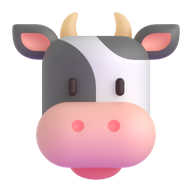
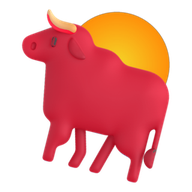
컴퓨터 더 빠르게 던지고 고르기, 작은 순위표(등수+그림), 소를 빨간 황소+노란 해 그림으로

diff --git a/index.html b/index.html
@@ -105,6 +105,7 @@
   @media (min-width: 700px) and (orientation: portrait) {
     .side { display: grid; grid-template-columns: 1.15fr 1fr; align-items: start; }
     .side .topbar { grid-column: 1 / -1; }
+    .side .rankbar { grid-column: 1 / -1; }
     .game-grid .board-wrap { width: min(100%, calc(100dvh - 520px)); margin: 0 auto; }
   }
   @media (min-width: 760px) and (orientation: landscape) {
@@ -219,6 +220,14 @@
   .tcard .goal { font-size: 13px; color: var(--soft); }
   .tcard .goal b { color: var(--ink); font-weight: 400; }
 
+  /* 지금 순위: 숫자 + 그림만 작게 */
+  .rankbar { display: flex; justify-content: center; flex-wrap: wrap; gap: 6px; }
+  .rk { display: inline-flex; align-items: center; gap: 2px; padding: 2px 8px 2px 4px; border-radius: 999px; background: var(--card); box-shadow: 0 2px 0 var(--line); font-size: 17px; line-height: 1; }
+  .rk b { font-weight: 400; min-width: 16px; text-align: center; color: var(--soft); }
+  .rk img { width: 28px; height: 28px; }
+  .rk.top { background: #FFF1C9; }
+  .rk.top b { color: #B07A00; }
+
   /* ───── 시트 / 오버레이 ───── */
   .scrim { position: fixed; inset: 0; background: var(--scrim); z-index: 100; display: flex; align-items: flex-end; justify-content: center; animation: fadeIn .2s; }
   .scrim.center { align-items: center; padding: 16px; }
@@ -315,6 +324,8 @@
         <button class="icon-btn" id="menuBtn" aria-label="메뉴">☰</button>
       </div>
 
+      <div class="rankbar" id="rankbar"></div>
+
       <div class="mat">
         <div class="mat-title"><span class="left">윷판</span><span id="multTag"></span></div>
         <div class="sticks" id="sticks"></div>
@@ -392,7 +403,7 @@ function distToGoal(pos, hist) { return simulate(pos, hist, 40).path.length; }
 
 const YUT_NAME = { "-1": "빽도", 1: "도", 2: "개", 3: "걸", 4: "윷", 5: "모" };
 const TEAM_COLORS = ["#F0675F", "#5B8DEF", "#4DB37E", "#F2B630"];
-// 말 그림: Microsoft Fluent Emoji 3D (MIT 라이선스), animals/ 폴더
+// 말 그림: Microsoft Fluent Emoji 3D (MIT 라이선스), animals/ 폴더. 소는 황소를 빨갛게 칠하고 노란 해를 더함 (scratchpad fluent/bull.py)
 // 헬멧(레이싱 드라이버용)은 Fluent에 없어 같은 느낌으로 직접 그림 (scratchpad fluent/helmet.py)
 // 뱅갈 고양이(이마 줄무늬)는 고양이 얼굴을 다시 칠한 것 (scratchpad breeds.py)
 // 12지 순서대로, 그다음 다른 동물들
@@ -754,7 +765,7 @@ async function doMove(ri, g) {
 /* ════════ 컴퓨터 ════════ */
 function scheduleAI() {
   clearTimeout(ui.aiTimer);
-  if (isAI()) ui.aiTimer = setTimeout(aiStep, 800);
+  if (isAI()) ui.aiTimer = setTimeout(aiStep, 350);
 }
 async function aiStep() {
   if (!isAI() || ui.busy) return;
@@ -762,8 +773,7 @@ async function aiStep() {
     // 컴퓨터도 게이지를 누른다: 반쯤은 윷·모 구역을 노리고, 나머지는 아무 데나
     ui.busy = true; render();
     const aim = Math.random() < .5 ? [51, 82][Math.floor(Math.random() * 2)] + (Math.random() * 10 - 5) : Math.random() * 88;
-    const sweeps = 1 + Math.floor(Math.random() * 2);
-    const total = sweepMs() * 2 * sweeps + aim / 100 * sweepMs();
+    const total = (aim / 100 + (Math.random() < .3 ? 2 : 0)) * sweepMs();   // 대개 한 번에, 가끔 한 바퀴 더
     const t0 = performance.now();
     const k = window.__speed || 1;
     for (let e = 0; e < total; e = (performance.now() - t0) / k) { renderGauge(gaugeAt(e)); await new Promise(r => setTimeout(r, 16)); }
@@ -774,7 +784,7 @@ async function aiStep() {
   const m = aiChoose();
   if (!m) return;
   ui.sel = m.ri; ui.group = m.g; render();
-  await sleep(700);
+  await sleep(350);
   await doMove(m.ri, m.g);
 }
 function threatened(pos, t) {
@@ -950,6 +960,8 @@ function render(keepMsg) {
   else if (choices.includes(WAIT)) { btn.textContent = "새 말 올리기"; btn.disabled = false; }
   else { btn.textContent = "말을 골라 주세요"; btn.disabled = true; }
 
+  renderRank();
+
   // 팀 카드
   const tw = $("#teams");
   tw.style.setProperty("--n", G.teams.length);
@@ -968,6 +980,18 @@ function render(keepMsg) {
       <div class="wait">${minis}</div>
       <div class="goal">골인 <b>${done}</b>/${ps.length}</div></div>`;
   }).join("");
+}
+// 지금 순위: 골인한 말이 많을수록, 같으면 남은 칸이 적을수록 앞. 똑같으면 같은 등수
+function standings() {
+  const arr = G.teams.map((tm, t) => {
+    const ps = piecesOf(t);
+    return { t, tm, done: ps.filter(p => p.pos === GOAL).length, dist: ps.reduce((a, p) => a + (p.pos === GOAL ? 0 : distToGoal(p.pos, p.hist)), 0) };
+  }).sort((a, b) => b.done - a.done || a.dist - b.dist);
+  arr.forEach((r, i) => { const q = arr[i - 1]; r.rank = q && q.done === r.done && q.dist === r.dist ? q.rank : i + 1; });
+  return arr;
+}
+function renderRank() {
+  $("#rankbar").innerHTML = standings().map(r => `<span class="rk ${r.rank === 1 ? "top" : ""}" title="${esc(r.tm.name)}"><b>${r.rank}</b>${ani(r.tm.animal)}</span>`).join("");
 }
 function setMsg(h) { $("#msg").innerHTML = h; }
 

diff --git a/sw.js b/sw.js
@@ -1,5 +1,5 @@
 // 윷판 서비스 워커: 앱 파일을 저장해 두어 인터넷이 약한 모임 장소에서도 열리게 한다
-const VERSION = "yut-v9";
+const VERSION = "yut-v10";
 const CORE = ["./", "index.html", "manifest.webmanifest", ...["tiger","rabbit","dog","bengal","dragon","snake","horse","sheep","monkey","rooster","soccer","helmet","bear","panda","fox","pig","chick","frog","cow","koala","hamster","mouse","penguin","lion"].map(k => `animals/${k}.png`), "icons/icon-192-v1.png", "icons/icon-512-v1.png", "icons/apple-touch-icon-v1.png"];
 
 self.addEventListener("install", e => {
